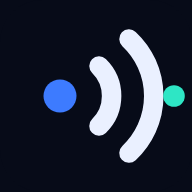
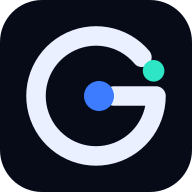
hggfjbhgh

diff --git a/index.html b/index.html
@@ -3,21 +3,11 @@
 <head>
   <meta charset="utf-8" />
   <meta name="viewport" content="width=device-width, initial-scale=1, viewport-fit=cover" />
-  <title>RESONARA — Arabic voice and language data for AI teams</title>
+  <title>GOLDATA — Multilingual AI data services</title>
   <meta name="description" content="Human expertise in every language, turned into the data that trains better AI." />
   <meta name="robots" content="index,follow" />
   <meta name="theme-color" content="#070B18" />
   <link rel="canonical" id="canonical" href="https://nativemind11.github.io/frontgoldata/" />
-  <link rel="alternate" hreflang="en" href="https://nativemind11.github.io/frontgoldata/" data-static-hreflang />
-  <link rel="alternate" hreflang="x-default" href="https://nativemind11.github.io/frontgoldata/" data-static-hreflang />
-  <meta property="og:url" content="https://nativemind11.github.io/frontgoldata/" />
-  <meta property="og:image" content="https://nativemind11.github.io/frontgoldata/images/og.png" />
-  <meta name="twitter:image" content="https://nativemind11.github.io/frontgoldata/images/og.png" />
-  <link rel="alternate" hreflang="en" href="https://nativemind11.github.io/frontgoldata/" data-static-hreflang />
-  <link rel="alternate" hreflang="x-default" href="https://nativemind11.github.io/frontgoldata/" data-static-hreflang />
-  <meta property="og:url" content="https://nativemind11.github.io/frontgoldata/" />
-  <meta property="og:image" content="https://nativemind11.github.io/frontgoldata/images/og.png" />
-  <meta name="twitter:image" content="https://nativemind11.github.io/frontgoldata/images/og.png" />
   <link rel="alternate" hreflang="en" href="https://nativemind11.github.io/frontgoldata/" data-static-hreflang />
   <link rel="alternate" hreflang="ar" href="https://nativemind11.github.io/frontgoldata/?lang=ar" data-static-hreflang />
   <link rel="alternate" hreflang="fr" href="https://nativemind11.github.io/frontgoldata/?lang=fr" data-static-hreflang />
@@ -46,8 +36,8 @@
   <meta property="og:image" content="https://nativemind11.github.io/frontgoldata/images/og.png" />
   <meta name="twitter:image" content="https://nativemind11.github.io/frontgoldata/images/og.png" />
   <meta property="og:type" content="website" />
-  <meta property="og:site_name" content="RESONARA" />
-  <meta property="og:title" content="RESONARA — Arabic voice and language data for AI teams" />
+  <meta property="og:site_name" content="GOLDATA" />
+  <meta property="og:title" content="GOLDATA — Multilingual AI data services" />
   <meta property="og:description" content="Human expertise in every language, turned into the data that trains better AI." />
   <!-- After deploy, add ABSOLUTE image URLs (social networks ignore relative paths). A brand-only
        card ships as images/og.png; replace with images/og.webp when you have the final art:
@@ -64,7 +54,7 @@
   <link rel="stylesheet" href="https://fonts.googleapis.com/css2?family=Instrument+Sans:wght@400;500;600&family=Syne:wght@700&display=swap" />
   <link rel="preconnect" href="https://cdnjs.cloudflare.com" crossorigin />
   <link rel="stylesheet" href="css/style.css" />
-  <script type="application/ld+json" id="ld-org">{"@context":"https://schema.org","@type":"Organization","name":"RESONARA","url":"https://nativemind11.github.io/frontgoldata/","description":"Human expertise in every language, turned into the data that trains better AI.","email":"nativemind.contact@gmail.com","telephone":"+201558126147","sameAs":[]}</script>
+  <script type="application/ld+json" id="ld-org">{"@context":"https://schema.org","@type":"Organization","name":"GOLDATA","url":"https://nativemind11.github.io/frontgoldata/","description":"Human expertise in every language, turned into the data that trains better AI.","email":"nativemind.contact@gmail.com","telephone":"+201558126147","sameAs":[]}</script>
   <script type="application/ld+json" id="ld-page">{"@context":"https://schema.org","@type":"FAQPage","mainEntity":[{"@type":"Question","name":"Which languages and dialects do you cover?","acceptedAnswer":{"@type":"Answer","text":"We build teams around your target locales, including regional dialects and lower-resource languages. Share your list and we confirm coverage, contributor availability and timelines before any work starts."}},{"@type":"Question","name":"How do you keep our data secure?","acceptedAnswer":{"@type":"Answer","text":"Access is limited to the people who need it, contributors sign confidentiality agreements, and we agree storage, transfer and deletion rules with you before any data moves. We can work inside your environment when required."}},{"@type":"Question","name":"How do you control quality?","acceptedAnswer":{"@type":"Answer","text":"Contributors are qualified and calibrated against gold examples, work passes through layered review, and accuracy is measured continuously. You see quality reports throughout the project, not just at the end."}},{"@type":"Question","name":"What is a typical turnaround?","acceptedAnswer":{"@type":"Answer","text":"It depends on volume, languages and complexity. After scoping we give you a written schedule with milestones; pilots typically come first so the timeline rests on real throughput."}},{"@type":"Question","name":"Can we start with a pilot?","acceptedAnswer":{"@type":"Answer","text":"Yes, and we recommend it. A pilot aligns guidelines and quality targets on a small batch before you commit to full volume."}},{"@type":"Question","name":"How is pricing structured?","acceptedAnswer":{"@type":"Answer","text":"Per unit (hour of audio, item, label or word), per evaluator hour, or a fixed project fee — whichever fits the work. Every quote is itemized so you know exactly what you pay for."}},{"@type":"Question","name":"Which tools do you work with?","acceptedAnswer":{"@type":"Answer","text":"Your own platform, common open-source annotation tools, or a setup we configure for the project. Delivery formats follow your pipeline."}},{"@type":"Question","name":"Will you sign our NDA?","acceptedAnswer":{"@type":"Answer","text":"Yes. We are happy to sign your NDA before scoping, or provide ours. Contributor confidentiality agreements apply to every project."}}]}</script>
 </head>
 <body data-tone="ink">
@@ -72,7 +62,7 @@
   <div id="live" class="sr-only" aria-live="polite" aria-atomic="true"></div>
 
   <!-- Preloader: the logo mark draws itself with real loading progress -->
-  <div class="preloader" id="preloader" role="status" aria-live="polite" aria-label="Loading RESONARA">
+  <div class="preloader" id="preloader" role="status" aria-live="polite" aria-label="Loading GOLDATA">
     <div class="preloader__inner">
       <svg class="preloader__mark" viewBox="0 0 64 64" aria-hidden="true"><path d="M47.3 19.1A20 20 0 1 0 52 32H38" fill="none" stroke="rgba(234,240,255,.14)" stroke-width="6.5" stroke-linecap="round" stroke-linejoin="round"/><path class="lm-ring" pathLength="1" d="M47.3 19.1A20 20 0 1 0 52 32H38" fill="none" stroke="#EAF0FF" stroke-width="6.5" stroke-linecap="round" stroke-linejoin="round"/><circle cx="33" cy="32" r="5" fill="#3D7BFF"/><circle cx="51.2" cy="23.6" r="3.6" fill="#2EE6C5"/></svg>
       <span class="preloader__count"><span id="preloader-count">0</span>%</span>
@@ -94,7 +84,7 @@
   <header class="nav" id="nav"></header>
   <div class="menu" id="menu" hidden></div>
 
-  <main id="view" class="view" tabindex="-1"><!--prerender:start--><div class="container prerendered"><h1>Arabic voice data, built for voice AI.</h1><p>Human expertise in every language, turned into the data that trains better AI.</p><h2>Smart Data, Human Expertise</h2><p>AI is only as good as what it learns from. We combine trained native-speaking people with disciplined workflows, so the data behind your model is accurate, representative and ready to use.</p><h2>11 disciplines.</h2><ul><li>Speech &amp; Voice — Scripted and spontaneous speech, recorded and labeled by native speakers in the rooms, cars and streets your users actually live in.</li><li>Data Collection — Text, audio, image and video captured to your specification by vetted contributors, with consent and metadata attached to every file.</li><li>Data Annotation — Text, audio, image and video annotated by trained specialists who understand the language and the culture behind the content.</li><li>AI Model Evaluation — Native-speaker evaluators rate accuracy, fluency, safety and cultural fit, so you ship with evidence instead of hope.</li><li>Quality Assurance — Quality is designed before production: gold examples, calibration, layered review, issue taxonomy and a delivery report that separates accepted work from open questions.</li><li>Industry Solutions — Programs built around the vocabulary, regulation and edge cases of your industry, with contributors who know the field.</li><li>Translation &amp; Localization — Datasets, prompts and products translated and adapted by native linguists, so your AI sounds local everywhere it speaks.</li><li>Generative AI Services — RLHF, red-teaming, fine-tuning data and prompt evaluation from skilled, native-speaking experts in every language you serve.</li><li>Off-the-Shelf Datasets — Licensable datasets for object detection, instruction tuning, speech recognition and image classification, documented so you know exactly what you are buying.</li><li>Data Evaluation — Training data validation, AI model evaluation, audio and speech data review and search relevance judgments by calibrated human raters.</li><li>Transcription — Audio, image and video transcription by trained native transcribers, with secure handling for high-volume programs.</li></ul><h2>FAQ</h2><h3>Which languages and dialects do you cover?</h3><p>We build teams around your target locales, including regional dialects and lower-resource languages. Share your list and we confirm coverage, contributor availability and timelines before any work starts.</p><h3>How do you keep our data secure?</h3><p>Access is limited to the people who need it, contributors sign confidentiality agreements, and we agree storage, transfer and deletion rules with you before any data moves. We can work inside your environment when required.</p><h3>How do you control quality?</h3><p>Contributors are qualified and calibrated against gold examples, work passes through layered review, and accuracy is measured continuously. You see quality reports throughout the project, not just at the end.</p><h3>What is a typical turnaround?</h3><p>It depends on volume, languages and complexity. After scoping we give you a written schedule with milestones; pilots typically come first so the timeline rests on real throughput.</p><h3>Can we start with a pilot?</h3><p>Yes, and we recommend it. A pilot aligns guidelines and quality targets on a small batch before you commit to full volume.</p><h3>How is pricing structured?</h3><p>Per unit (hour of audio, item, label or word), per evaluator hour, or a fixed project fee — whichever fits the work. Every quote is itemized so you know exactly what you pay for.</p><h3>Which tools do you work with?</h3><p>Your own platform, common open-source annotation tools, or a setup we configure for the project. Delivery formats follow your pipeline.</p><h3>Will you sign our NDA?</h3><p>Yes. We are happy to sign your NDA before scoping, or provide ours. Contributor confidentiality agreements apply to every project.</p></div><!--prerender:end--></main>
+  <main id="view" class="view" tabindex="-1"><!--prerender:start--><div class="container prerendered"><h1>Fluent humans. Smarter machines.</h1><p>Human expertise in every language, turned into the data that trains better AI.</p><h2>Smart Data, Human Expertise</h2><p>AI is only as good as what it learns from. We combine trained native-speaking people with disciplined workflows, so the data behind your model is accurate, representative and ready to use.</p><h2>11 disciplines.</h2><ul><li>Speech &amp; Voice — Scripted and spontaneous speech, recorded and labeled by native speakers in the rooms, cars and streets your users actually live in.</li><li>Data Collection — Text, audio, image and video captured to your specification by vetted contributors, with consent and metadata attached to every file.</li><li>Data Annotation — Text, audio, image and video annotated by trained specialists who understand the language and the culture behind the content.</li><li>AI Model Evaluation — Native-speaker evaluators rate accuracy, fluency, safety and cultural fit, so you ship with evidence instead of hope.</li><li>Quality Assurance — Quality is designed before production: gold examples, calibration, layered review, issue taxonomy and a delivery report that separates accepted work from open questions.</li><li>Industry Solutions — Programs built around the vocabulary, regulation and edge cases of your industry, with contributors who know the field.</li><li>Translation &amp; Localization — Datasets, prompts and products translated and adapted by native linguists, so your AI sounds local everywhere it speaks.</li><li>Generative AI Services — RLHF, red-teaming, fine-tuning data and prompt evaluation from skilled, native-speaking experts in every language you serve.</li><li>Off-the-Shelf Datasets — Licensable datasets for object detection, instruction tuning, speech recognition and image classification, documented so you know exactly what you are buying.</li><li>Data Evaluation — Training data validation, AI model evaluation, audio and speech data review and search relevance judgments by calibrated human raters.</li><li>Transcription — Audio, image and video transcription by trained native transcribers, with secure handling for high-volume programs.</li></ul><h2>FAQ</h2><h3>Which languages and dialects do you cover?</h3><p>We build teams around your target locales, including regional dialects and lower-resource languages. Share your list and we confirm coverage, contributor availability and timelines before any work starts.</p><h3>How do you keep our data secure?</h3><p>Access is limited to the people who need it, contributors sign confidentiality agreements, and we agree storage, transfer and deletion rules with you before any data moves. We can work inside your environment when required.</p><h3>How do you control quality?</h3><p>Contributors are qualified and calibrated against gold examples, work passes through layered review, and accuracy is measured continuously. You see quality reports throughout the project, not just at the end.</p><h3>What is a typical turnaround?</h3><p>It depends on volume, languages and complexity. After scoping we give you a written schedule with milestones; pilots typically come first so the timeline rests on real throughput.</p><h3>Can we start with a pilot?</h3><p>Yes, and we recommend it. A pilot aligns guidelines and quality targets on a small batch before you commit to full volume.</p><h3>How is pricing structured?</h3><p>Per unit (hour of audio, item, label or word), per evaluator hour, or a fixed project fee — whichever fits the work. Every quote is itemized so you know exactly what you pay for.</p><h3>Which tools do you work with?</h3><p>Your own platform, common open-source annotation tools, or a setup we configure for the project. Delivery formats follow your pipeline.</p><h3>Will you sign our NDA?</h3><p>Yes. We are happy to sign your NDA before scoping, or provide ours. Contributor confidentiality agreements apply to every project.</p></div><!--prerender:end--></main>
   <footer id="footer" class="footer"></footer>
 
   <div class="sticky" id="sticky" aria-hidden="true"></div>
@@ -114,7 +104,7 @@
 
   <div class="cursor" aria-hidden="true"><span class="cursor__dot"></span><span class="cursor__ring"><span class="cursor__label"></span></span></div>
 
-  <noscript><div class="noscript">RESONARA needs JavaScript for navigation. Email us at nativemind.contact@gmail.com.</div></noscript>
+  <noscript><div class="noscript">GOLDATA needs JavaScript for navigation. Email us at nativemind.contact@gmail.com.</div></noscript>
 
   <!-- Pinned, free libraries -->
   <script defer src="https://cdnjs.cloudflare.com/ajax/libs/three.js/r128/three.min.js"></script>

diff --git a/README-FRONT.md b/README-FRONT.md
@@ -1,4 +1,4 @@
-# RESONARA — front end (static site)
+# GOLDATA — front end (static site)
 
 A cinematic, scroll-driven 3D website. Plain HTML/CSS/JS — **no build step**.
 Works on any static host, including a GitHub Pages project URL such as
@@ -53,10 +53,10 @@ python3 -m http.server 5500     # open http://localhost:5500
 
 ## Deploy on GitHub Pages (free)
 
-1. Create a **public** repository, e.g. `resonara-site`.
+1. Create a **public** repository, e.g. `goldata-site`.
 2. Upload the **contents** of `front/` to the repo root (`index.html` at the top level).
 3. **Settings → Pages** → *Deploy from a branch* → `main` / `(root)` → Save.
-4. Live in 1–2 minutes at `https://USER.github.io/resonara-site/`.
+4. Live in 1–2 minutes at `https://USER.github.io/goldata-site/`.
 5. Set `CFG.siteUrl` to that URL, run `node tools/prerender.js`, commit the generated folders (see **SEO**).
 
 ## Filling CFG (`js/config.js`) — every field
@@ -70,7 +70,7 @@ python3 -m http.server 5500     # open http://localhost:5500
 | `address`, `mapQ` | Address text; Google Maps search text | Hidden |
 | `incidentEmail` | Security-incident inbox (Trust Center) | Uses `email` |
 | `socials` | Full profile URLs | Any `"#"` is hidden; all `"#"` hides the row |
-| `apiBase` | Your Vercel base, e.g. `https://resonara-back.vercel.app/api` | Forms fall back to opening the visitor's email app |
+| `apiBase` | Your Vercel base, e.g. `https://goldata-back.vercel.app/api` | Forms fall back to opening the visitor's email app |
 | `demo` | `true` shows SAMPLE blocks under a yellow **DEMO** ribbon | `false` hides every block with no real data |
 | `stats` | `[{ value: "40+", label: "…" }]` — numbers count up. Add `key: "locales"` to the entry that should show on Transcription | Hidden (demo: ribboned sample) |
 | `testimonials`, `rating`, `certs`, `team`, `cases` | Real, permitted proof only (shapes in config comments) | Hidden / ribboned samples. Trust Center shows "Documentation available on request" when `certs` is empty |

diff --git a/image-prompts.md b/image-prompts.md
@@ -1,4 +1,4 @@
-# RESONARA — image shot list (44 slots)
+# GOLDATA — image shot list (44 slots)
 
 Drop each final image into `front/images/` named exactly as in **File**. Formats: the site requests `webp` (set `CFG.imageFormats`; e.g. `["avif","webp"]` adds AVIF with WebP fallback — then upload BOTH files per slot). Missing files fall back to the procedural 3D scene / blur placeholder, so add them one at a time.
 
@@ -532,14 +532,14 @@ Alt text and aspect ratio below are read from `CFG.images` in `js/config.js` —
 
 ### `og` — Social sharing card (images/og.png ships as a brand-only placeholder)
 
-- **Subject:** The RESONARA mark and wordmark on the left, a glowing wireframe globe on the right, generous negative space
+- **Subject:** The GOLDATA mark and wordmark on the left, a glowing wireframe globe on the right, generous negative space
 - **Lens:** flat graphic / 50 mm render
 - **Lighting:** soft blue glow behind the globe
 - **Palette:** ink background, mist type, teal underline
 - **Mood:** premium, recognisable
 - **Aspect ratio / size:** 1200:630 · 1200×630 px
 - **File:** `images/og.png` (Open Graph needs PNG or JPG; keep 1200×630)
-- **Alt text:** RESONARA logo and tagline on a dark background
+- **Alt text:** GOLDATA logo and tagline on a dark background
 - **Negative prompt:** text, letters, watermark, logo, brand marks, licence plates, readable screens, stock-photo clichés (handshakes, pointing at holograms), identifiable faces without a model release, extra fingers, oversaturated neon, purple cast, no extra text beyond brand + tagline
 
 ## Shared style line — append to EVERY prompt
